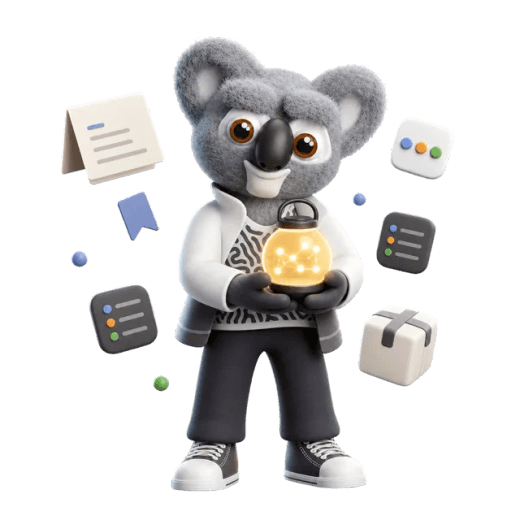
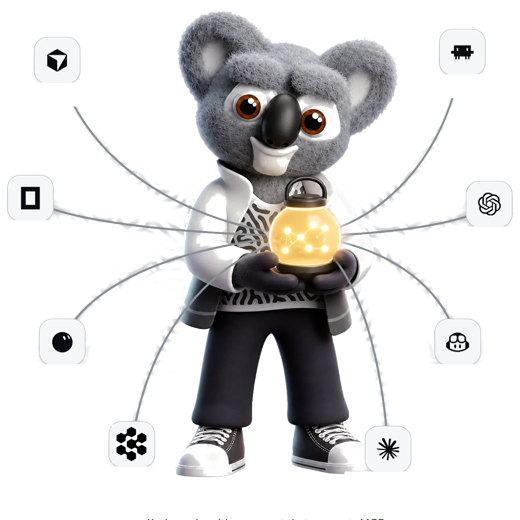
Swap Grok hero tile for Devin; use agents art for default OG
Replace the duplicate Grok mark with a trimmed Devin icon in the
landing agents orbit, bake that composition into the shared OG hero
asset, and update home OG copy with an intentional subtitle line break.

diff --git a/packages/worker/src/og/render.ts b/packages/worker/src/og/render.ts
@@ -67,13 +67,45 @@ export async function ensureRenderPipelineReady(input?: {
  * excerpt reads as a trailing-off sentence rather than a severed word
  * ("no m…"). Falls back to a hard cut when a single word exceeds the budget,
  * which is the only case where mid-word is the lesser evil.
+ *
+ * Intentional `\n` line breaks are preserved (collapsed per line); callers that
+ * need hard breaks in Satori should split on `\n` and render one node per line.
  */
 export function truncateOgText(text: string, maxLength: number): string {
-	const normalized = text.trim().replace(/\s+/g, ' ')
-	if (normalized.length <= maxLength) {
-		return normalized
+	const lines = text
+		.trim()
+		.split('\n')
+		.map((line) => line.replace(/\s+/g, ' ').trim())
+		.filter((line) => line.length > 0)
+	if (lines.length === 0) {
+		return ''
 	}
-	const clipped = normalized.slice(0, maxLength - 1)
+	if (lines.length === 1) {
+		return truncateOgLine(lines[0]!, maxLength)
+	}
+	// Keep the author-supplied breaks; budget is spent across the joined copy
+	// so a long second line cannot silently balloon past the card limit.
+	const joined = lines.join('\n')
+	if (joined.length <= maxLength) {
+		return joined
+	}
+	const truncated: string[] = []
+	let remaining = maxLength
+	for (const [index, line] of lines.entries()) {
+		if (remaining <= 1) break
+		const piece = truncateOgLine(line, remaining)
+		truncated.push(piece)
+		remaining -= piece.length
+		if (index < lines.length - 1) remaining -= 1 // account for the `\n`
+	}
+	return truncated.join('\n')
+}
+
+function truncateOgLine(text: string, maxLength: number): string {
+	if (text.length <= maxLength) {
+		return text
+	}
+	const clipped = text.slice(0, maxLength - 1)
 	const lastSpace = clipped.lastIndexOf(' ')
 	// Only honour the boundary if it keeps most of the budget; otherwise a long
 	// first word would collapse the line to almost nothing.

diff --git a/packages/worker/universal/og-pages.ts b/packages/worker/universal/og-pages.ts
@@ -22,11 +22,12 @@ export type PublicOgPage = {
 export const publicOgPages = {
 	home: {
 		// Short enough for 78px OG type. The homepage H1 keeps the full door.
-		imageTitle: 'Keep using your agent',
-		imageSubtitle: 'Tools and memory stay on Kody.',
-		ogTitle: 'Keep using the agent you already have — Kody',
+		imageTitle: 'The Home Your Agents Share',
+		imageSubtitle:
+			"For all the agents you use today,\nand the ones you'll use tomorrow",
+		ogTitle: 'The Home Your Agents Share — Kody',
 		ogDescription:
-			'Kody is the account your tools and memory live on when you switch. Not another chat. Not another harness.',
+			"For all the agents you use today, and the ones you'll use tomorrow.",
 		path: '/',
 	},
 	community: {

diff --git a/packages/worker/src/og/page-image.ts b/packages/worker/src/og/page-image.ts
@@ -143,6 +143,8 @@ function createPageOgMarkup(input: {
 									props: {
 										style: {
 											maxWidth: 560,
+											display: 'flex',
+											flexDirection: 'column',
 											// Sized and toned for a feed thumbnail rather than a
 											// full-size view: see `textReading` in palette.ts.
 											fontSize: 30,
@@ -152,7 +154,12 @@ function createPageOgMarkup(input: {
 										children: truncateOgText(
 											input.page.imageSubtitle,
 											SUBTITLE_MAX_LENGTH,
-										),
+										)
+											.split('\n')
+											.map((line) => ({
+												type: 'div',
+												props: { children: line },
+											})),
 									},
 								},
 							],

diff --git a/packages/worker/src/og/render.node.test.ts b/packages/worker/src/og/render.node.test.ts
@@ -15,4 +15,13 @@ test('truncateOgText collapses whitespace, breaks on word boundaries, and hard-c
 	expect(truncateOgText('supercalifragilisticexpialidocious tail', 12)).toBe(
 		'supercalifr…',
 	)
+
+	expect(
+		truncateOgText(
+			"For all the agents you use today,\nand the ones you'll use tomorrow",
+			160,
+		),
+	).toBe(
+		"For all the agents you use today,\nand the ones you'll use tomorrow",
+	)
 })

diff --git a/packages/worker/client/routes/landing-hero-agents.tsx b/packages/worker/client/routes/landing-hero-agents.tsx
@@ -81,8 +81,8 @@ const hostAgents = [
 		travel: 2.1,
 	},
 	{
-		label: 'Grok',
-		icon: 'grok',
+		label: 'Devin',
+		icon: 'devin',
 		x: 26,
 		y: 92,
 		dur: '6.5s',
